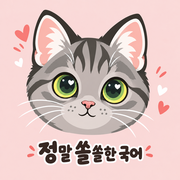
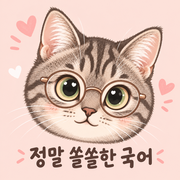
앱 아이콘 교체 (안경 쓴 고양이)

diff --git a/index.html b/index.html
@@ -6,10 +6,10 @@
 <title>정말 쏠쏠한 국어</title>
 <meta name="description" content="정말 쏠쏠한 국어 · 쏠T 온라인 학습 시스템"/>
 <meta name="theme-color" content="#4f7cff"/>
-<link rel="icon" type="image/png" sizes="32x32" href="icons/face-32.png"/>
-<link rel="icon" type="image/png" sizes="48x48" href="icons/face-48.png"/>
-<link rel="apple-touch-icon" href="icons/apple-touch-icon.png"/>
-<link rel="manifest" href="manifest.json"/>
+<link rel="icon" type="image/png" sizes="32x32" href="icons/face-32.png?v=2"/>
+<link rel="icon" type="image/png" sizes="48x48" href="icons/face-48.png?v=2"/>
+<link rel="apple-touch-icon" href="icons/apple-touch-icon.png?v=2"/>
+<link rel="manifest" href="manifest.json?v=2"/>
 <meta name="apple-mobile-web-app-title" content="쏠쏠국어"/>
 <meta name="mobile-web-app-capable" content="yes"/>
 <meta name="apple-mobile-web-app-capable" content="yes"/>
@@ -218,7 +218,7 @@ mark{background:rgba(245,158,11,.28);color:var(--text);border-radius:3px;padding
 <div class="page" id="page-login">
   <div class="login-wrap">
     <div class="login-logo">
-      <div class="login-logo-icon" style="background:none;width:84px;height:84px"><img src="icons/face-256.png" alt="" style="width:84px;height:84px;border-radius:22px"></div>
+      <div class="login-logo-icon" style="background:none;width:84px;height:84px"><img src="icons/face-256.png?v=2" alt="" style="width:84px;height:84px;border-radius:22px"></div>
       <h1>정말 쏠쏠한 국어</h1>
       <p>쏠T 온라인 학습 시스템</p>
     </div>
@@ -253,7 +253,7 @@ mark{background:rgba(245,158,11,.28);color:var(--text);border-radius:3px;padding
 <!-- TEACHER -->
 <div class="page" id="page-teacher">
   <div class="topbar">
-    <div class="topbar-title"><div class="tb-icon" style="background:none"><img src="icons/face-64.png" alt="" style="width:28px;height:28px;border-radius:8px"></div>정말 쏠쏠한 국어 · 강사</div>
+    <div class="topbar-title"><div class="tb-icon" style="background:none"><img src="icons/face-64.png?v=2" alt="" style="width:28px;height:28px;border-radius:8px"></div>정말 쏠쏠한 국어 · 강사</div>
     <div class="topbar-right"><span id="teacher-name"></span><button class="btn sm" onclick="doLogout()">로그아웃</button></div>
   </div>
   <div class="tabnav">
@@ -496,7 +496,7 @@ mark{background:rgba(245,158,11,.28);color:var(--text);border-radius:3px;padding
 <!-- STUDENT -->
 <div class="page" id="page-student">
   <div class="topbar">
-    <div class="topbar-title"><div class="tb-icon" style="background:none"><img src="icons/face-64.png" alt="" style="width:28px;height:28px;border-radius:8px"></div>정말 쏠쏠한 국어</div>
+    <div class="topbar-title"><div class="tb-icon" style="background:none"><img src="icons/face-64.png?v=2" alt="" style="width:28px;height:28px;border-radius:8px"></div>정말 쏠쏠한 국어</div>
     <div class="topbar-right"><span id="student-name"></span><button class="btn sm" onclick="doLogout()">로그아웃</button></div>
   </div>
   <div class="tabnav">
